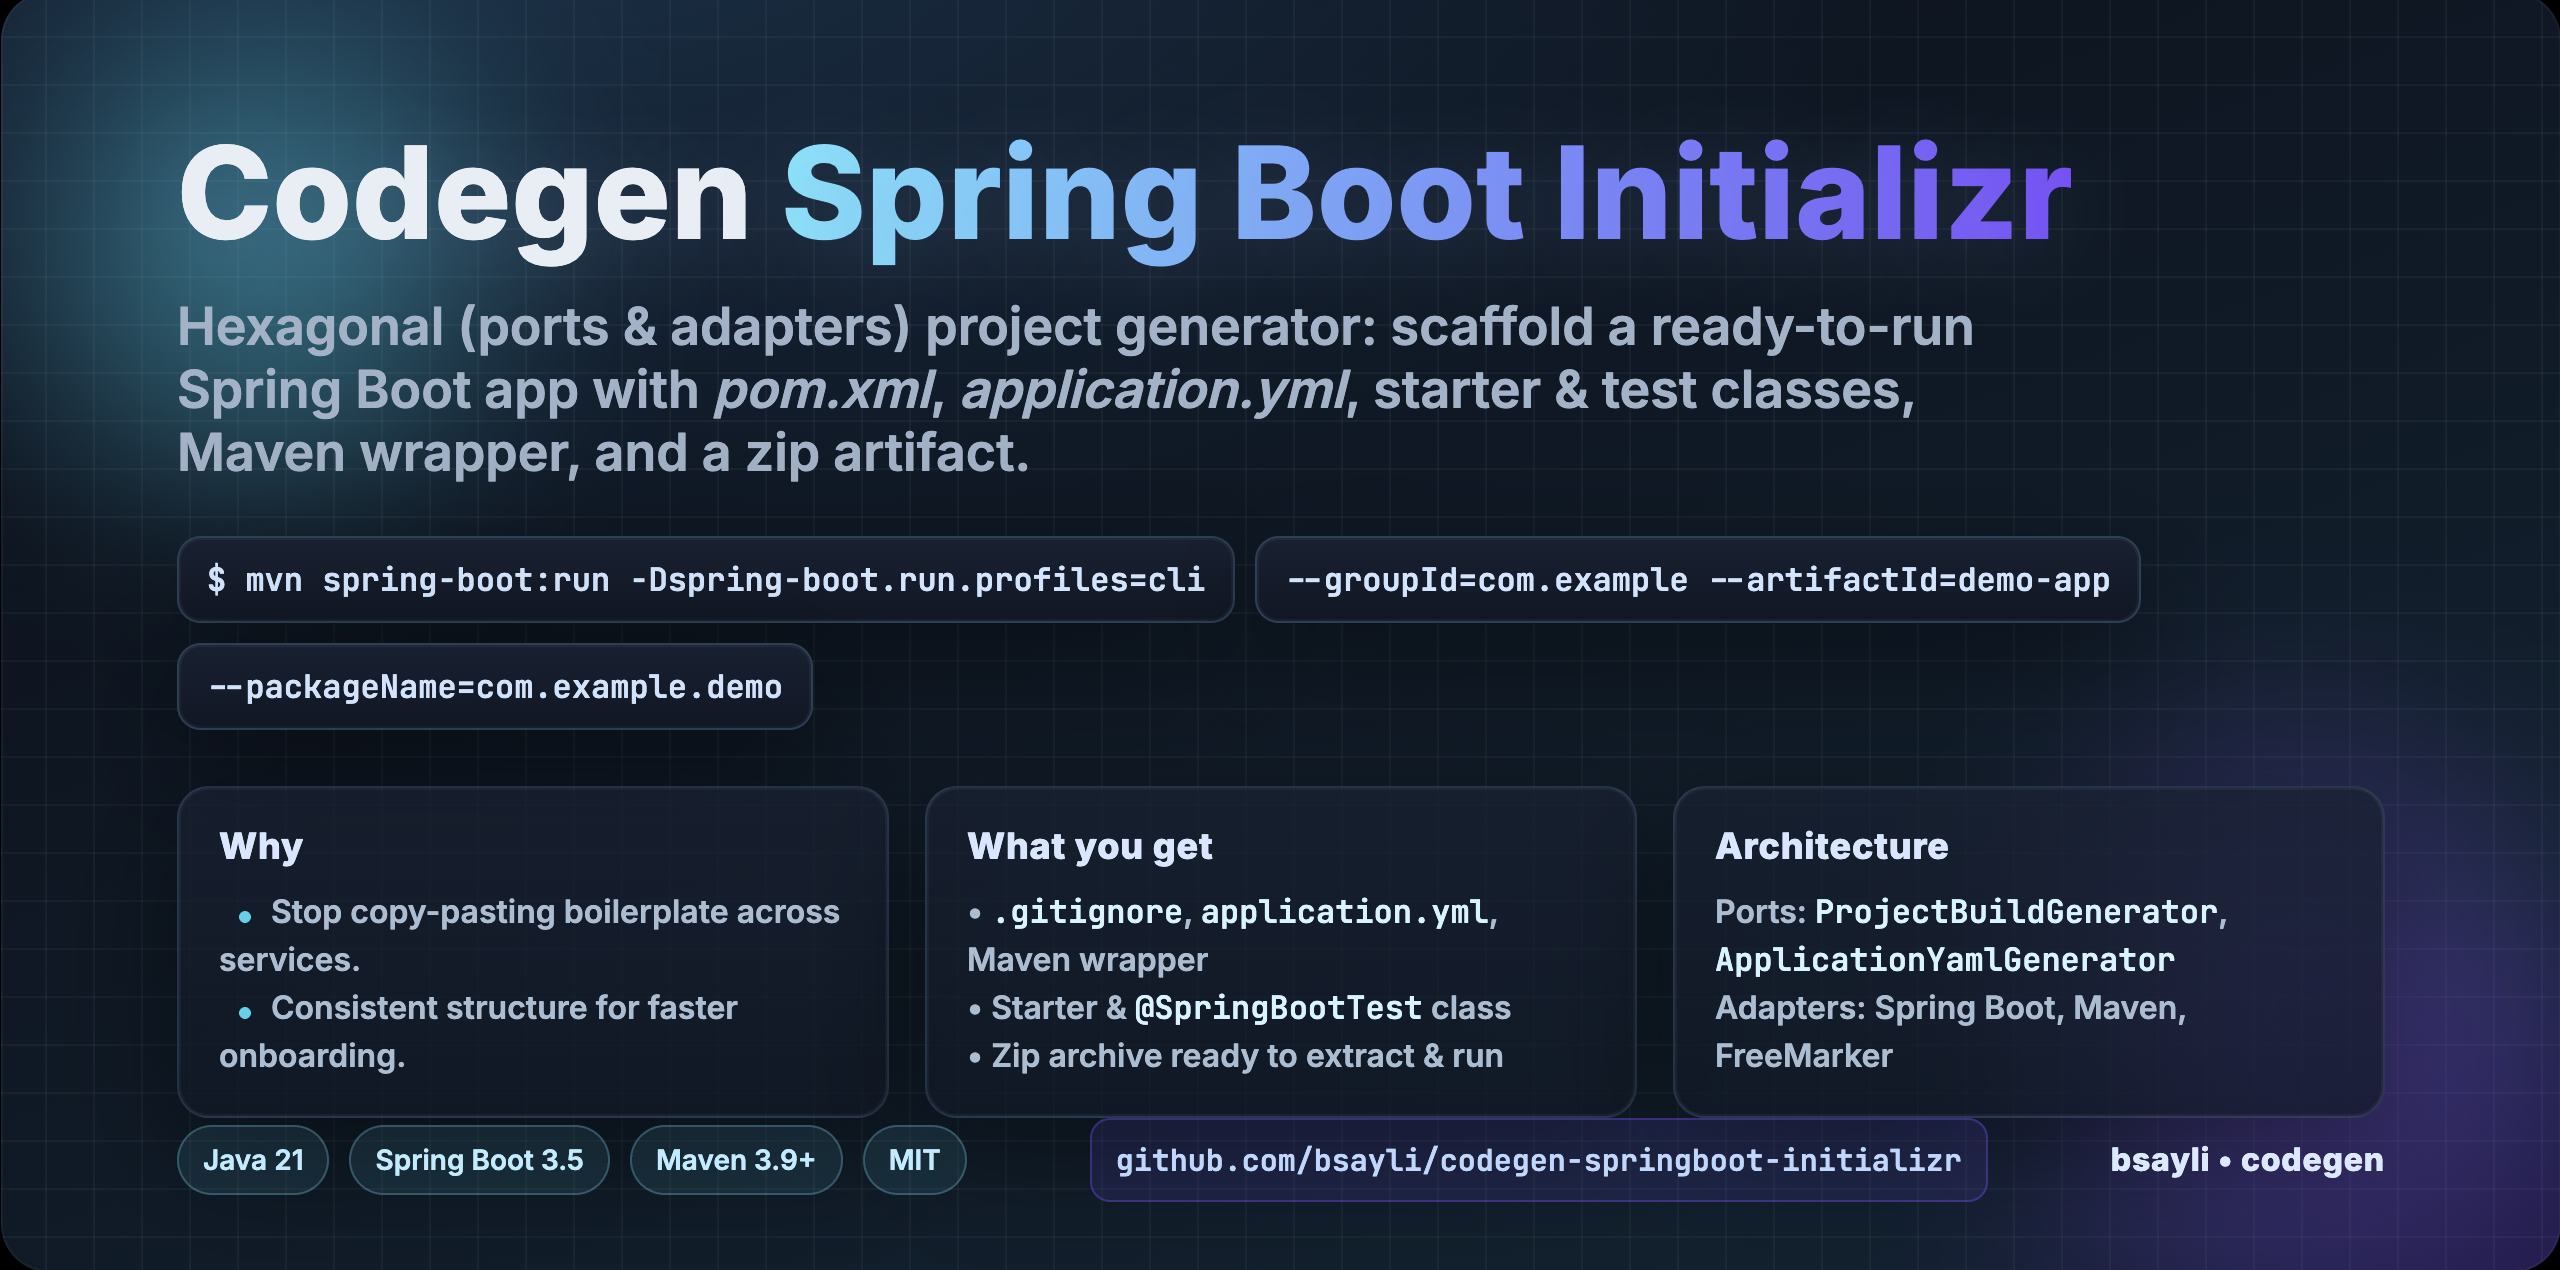
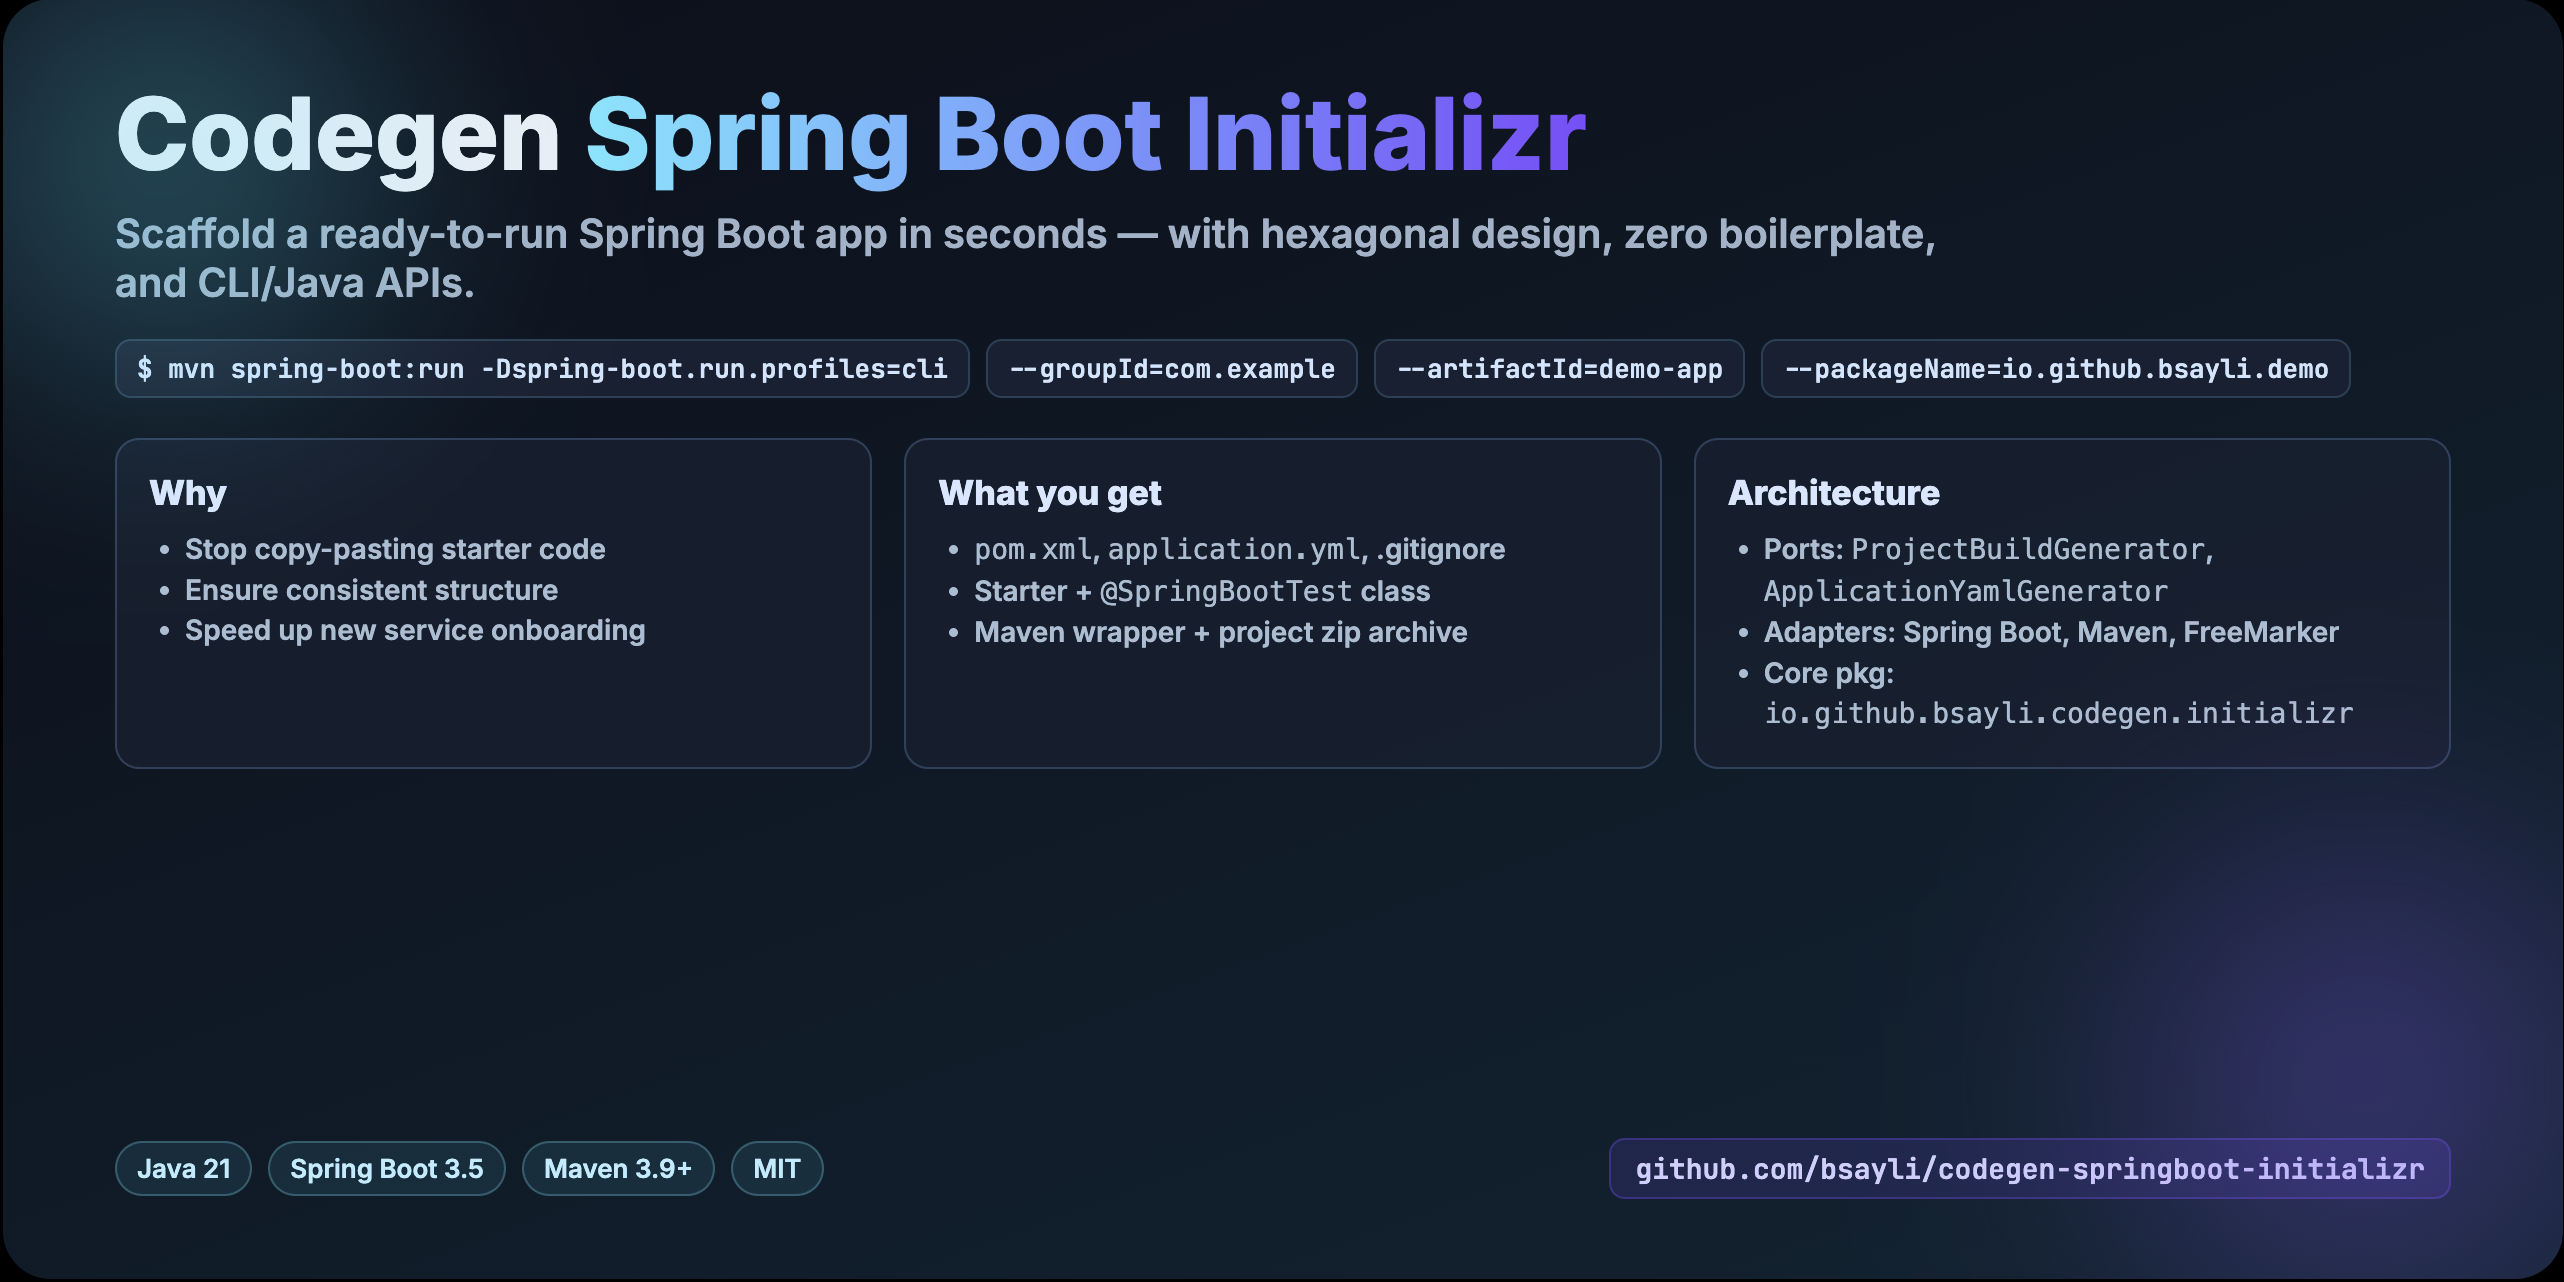
docs: update README and social preview for Codegen Initializr
- Rebranded base package to io.github.bsayli.codegen.initializr
- Updated README.md with revised usage examples, architecture notes, and badges
- Refreshed social-preview HTML to include updated branding and sections

diff --git a/README.md b/README.md
@@ -1,5 +1,6 @@
 # Codegen Spring Boot Initializr
 
+![Build](https://github.com/bsayli/spring-boot-openapi-generics-clients/actions/workflows/build.yml/badge.svg)
 ![Java](https://img.shields.io/badge/Java-21-red)
 ![Spring Boot](https://img.shields.io/badge/Spring%20Boot-3.5-green)
 ![Maven](https://img.shields.io/badge/Maven-3.9-blue)
@@ -11,9 +12,8 @@
   <em>Social preview banner for GitHub and sharing</em>
 </p>
 
-**A customizable project generator for Spring Boot**.
-Quickly scaffold a new Java application with predefined structure, configuration, and tests — no repetitive setup
-required.
+**A customizable project generator for Spring Boot.**
+Quickly scaffold a new Java application with predefined structure, configuration, and tests — no repetitive setup required.
 
 ---
 
@@ -37,9 +37,9 @@ Bootstrapping a new Spring Boot project often involves:
 This project automates all of that:
 
 * Generates a **ready-to-run Spring Boot project** with Maven
-* Adds **`.gitignore`, `application.yml`, starter class, and test class**
+* Adds `.gitignore`, `application.yml`, starter class, and test class
 * Supports **custom package and project naming**
-* Ships with **CLI runner** for easy one-liner project generation
+* Ships with **CLI runner** for one-liner project generation
 * Produces a **zip archive** you can immediately extract and use
 
 ---
@@ -66,8 +66,7 @@ mvn spring-boot:run -Dspring-boot.run.profiles=cli \
   -Dspring-boot.run.arguments="--groupId=com.example --artifactId=demo-app --packageName=com.example.demo --outputDir=./target/generated-projects --overwrite=true"
 ```
 
-✅ This generates a new project as a zip archive under the specified output directory (default:
-`./target/generated-projects`):
+✅ This generates a new project as a zip archive under the specified output directory (default: `./target/generated-projects`):
 
 ```
 [OK] Project archive generated at: /.../target/generated-projects/demo-app/demo-app.zip
@@ -75,19 +74,17 @@ mvn spring-boot:run -Dspring-boot.run.profiles=cli \
 
 ℹ Tips:
 
-* If you don’t provide `--outputDir`, the project will be created under the default path `target/generated-projects`
-  inside the current working directory.
+* If you don’t provide `--outputDir`, the project will be created under the default path `target/generated-projects`.
 * If the target directory already exists:
 
-    * By default, the generator will **fail-fast** with a clear error.
-    * Add `--overwrite=true` to **delete and regenerate** the project in the same directory.
+  * By default, the generator will **fail-fast** with a clear error.
+  * Add `--overwrite=true` to **delete and regenerate** the project in the same directory.
 
 ---
 
 ## 🧑💻 Programmatic Usage
 
 ```java
-
 import java.nio.file.Path;
 import java.util.List;
 
@@ -102,36 +99,32 @@ import io.github.bsayli.codegen.initializr.projectgeneration.service.ProjectGene
 // Assume ProjectGenerationService is injected or obtained from Spring context
 ProjectGenerationService service = /* @Autowired or ApplicationContext.getBean(...) */;
 
-        var depWeb =
-                new Dependency.DependencyBuilder()
-                        .groupId("org.springframework.boot")
-                        .artifactId("spring-boot-starter-web")
-                        .build();
+var depWeb = new Dependency.DependencyBuilder()
+    .groupId("org.springframework.boot")
+    .artifactId("spring-boot-starter-web")
+    .build();
 
-        var depTest =
-                new Dependency.DependencyBuilder()
-                        .groupId("org.springframework.boot")
-                        .artifactId("spring-boot-starter-test")
-                        .scope("test")
-                        .build();
+var depTest = new Dependency.DependencyBuilder()
+    .groupId("org.springframework.boot")
+    .artifactId("spring-boot-starter-test")
+    .scope("test")
+    .build();
 
-        var metadata = new SpringBootJavaProjectMetadataBuilder()
-                .springBootVersion("3.5.5")
-                .javaVersion("21")
-                .groupId("com.example")
-                .artifactId("demo-app")
-                .name("demo-app")
-                .description("Generated by codegen-initializr-core")
-                .packageName("com.example.demo")
-                .dependencies(List.of(depWeb, depTest))
-                .build();
+var metadata = new SpringBootJavaProjectMetadataBuilder()
+    .springBootVersion("3.5.5")
+    .javaVersion("21")
+    .groupId("com.example")
+    .artifactId("demo-app")
+    .name("demo-app")
+    .description("Generated by codegen-initializr-core")
+    .packageName("com.example.demo")
+    .dependencies(List.of(depWeb, depTest))
+    .build();
 
-        var type = new ProjectType(Framework.SPRING_BOOT, BuildTool.MAVEN, Language.JAVA);
+var type = new ProjectType(Framework.SPRING_BOOT, BuildTool.MAVEN, Language.JAVA);
 
-        Path zip = service.generateProject(type, metadata);
-System.out.
-
-        println("Archive generated at: "+zip.toAbsolutePath());
+Path zip = service.generateProject(type, metadata);
+System.out.println("Archive generated at: " + zip.toAbsolutePath());
 ```
 
 ---
@@ -184,16 +177,14 @@ Run the test suite:
 mvn test
 ```
 
-The generator components (`pom.xml`, `.gitignore`, `application.yml`, layout, archiver) are fully covered with unit &
-integration tests.
+The generator components (`pom.xml`, `.gitignore`, `application.yml`, layout, archiver) are fully covered with unit & integration tests.
 
 ---
 
 ## 📖 Related Work
 
 This tool is inspired by the need to automate repetitive **Spring Boot project initialization** tasks.
-It works well alongside other repositories
-like [spring-boot-openapi-generics-clients](https://github.com/bsayli/spring-boot-openapi-generics-clients).
+It works well alongside other repositories like [spring-boot-openapi-generics-clients](https://github.com/bsayli/spring-boot-openapi-generics-clients).
 
 ---
 
